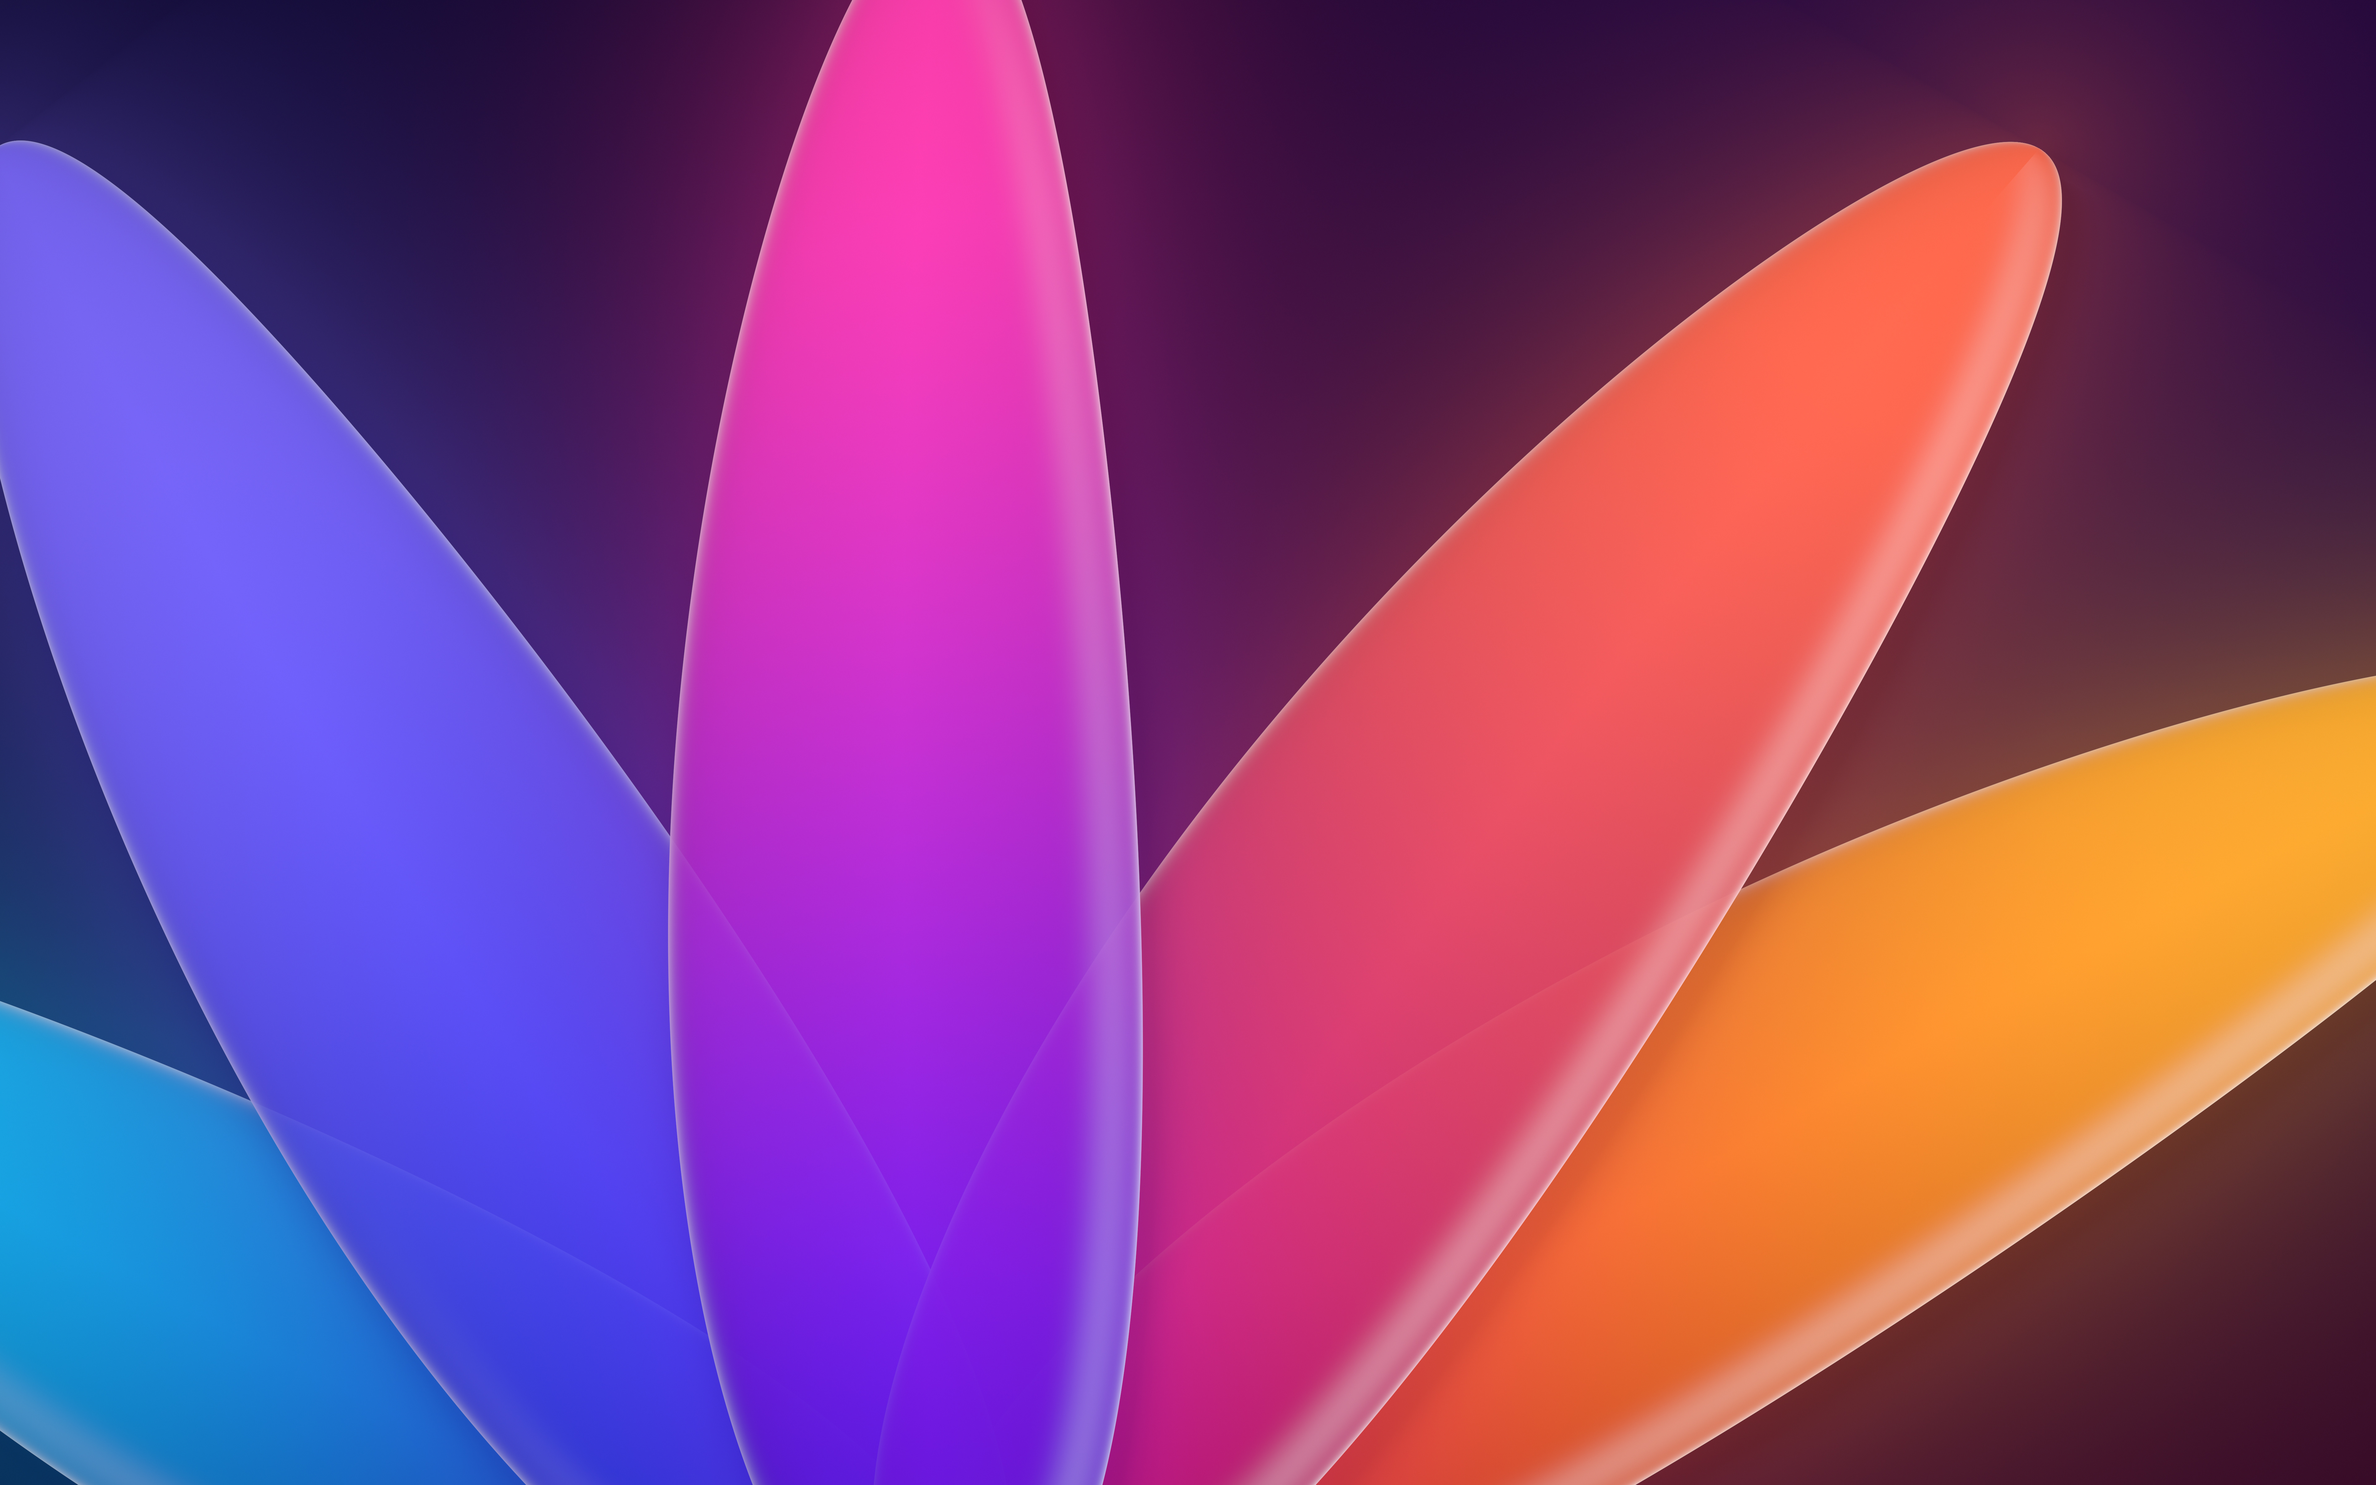
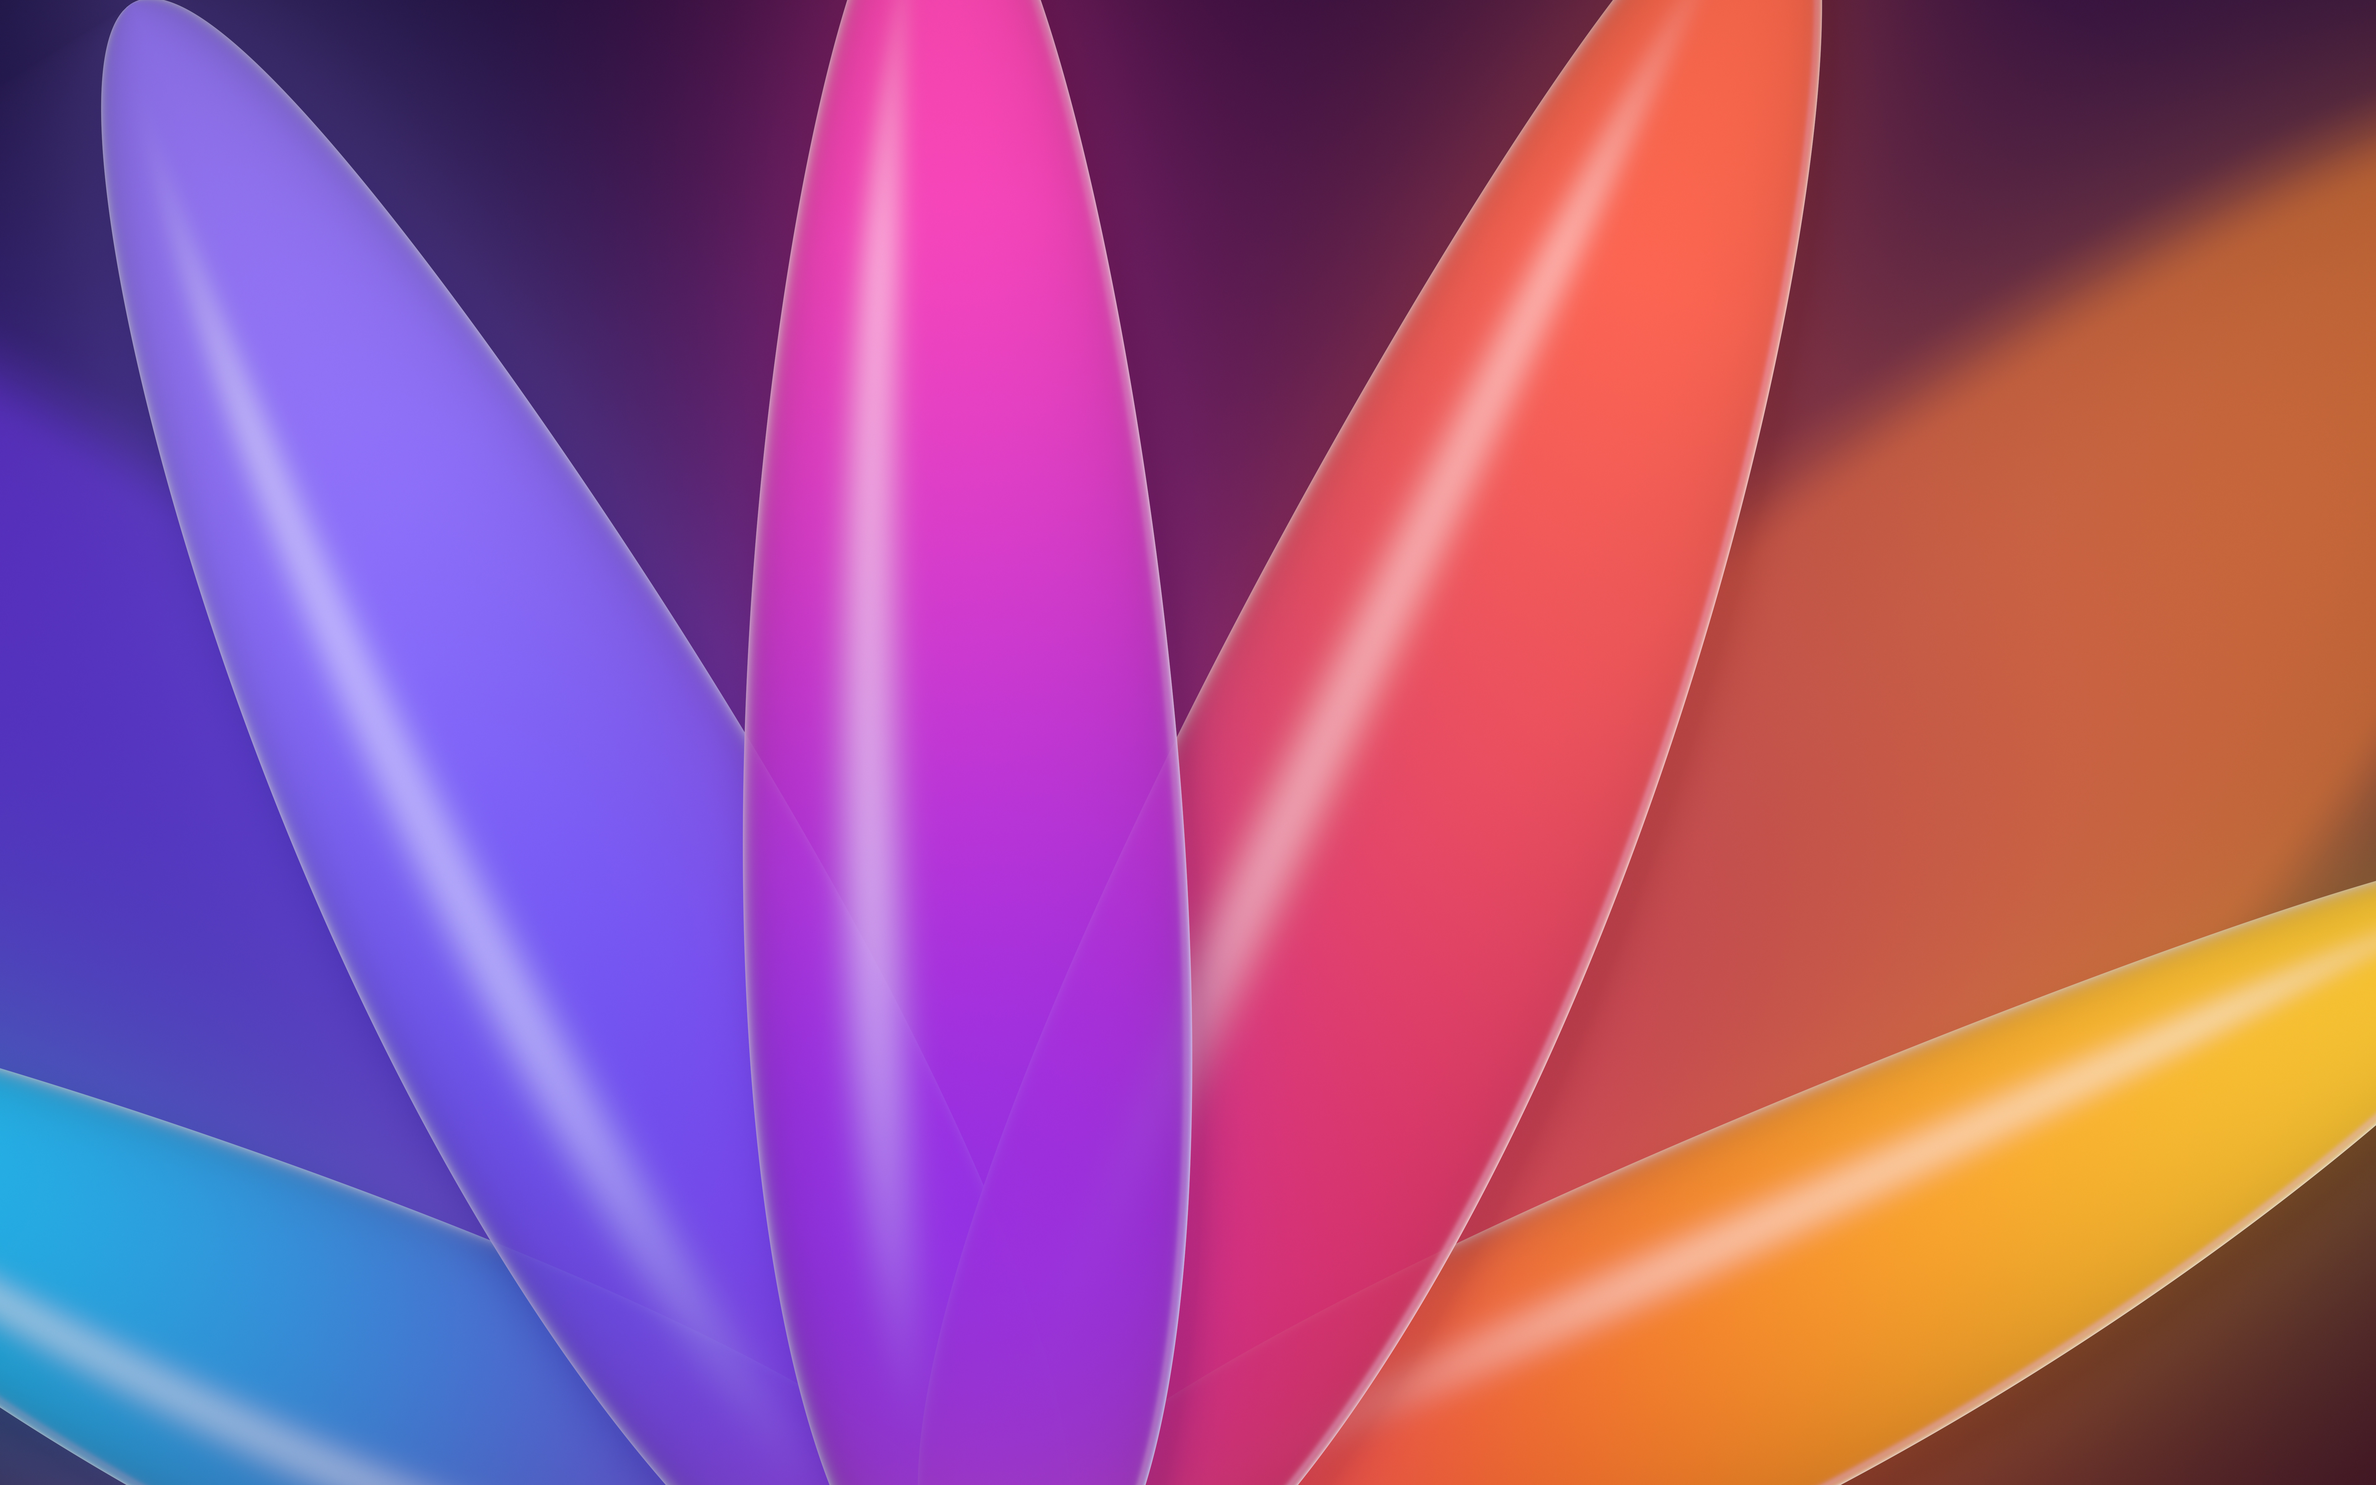
Bloom: depth of field (soft petals behind), rounded glass petals with a light streak and warm rim fringe, warm light at the heart, petals curving as they open

diff --git a/tools/bloom.py b/tools/bloom.py
@@ -1,11 +1,14 @@
 #!/usr/bin/env python3
-"""Memora "Bloom": big petals of coloured glass over a vivid wash of colour.
+"""Memora "Bloom": petals of coloured glass opening over a vivid wash of colour.
 
 Bright, saturated colour everywhere, so the Liquid Glass of the menu bar, the
-Dock and the widgets has something to bend and tint. Each petal is a pane of
-tinted glass: it shows what is behind it shifted a little (refraction), lights
-up along the rim that faces the light, and leaves a coloured shade on what is
-behind it. Rendered per pixel (numpy), so it is smooth at any size.
+Dock and the widgets has something to bend and tint. The petals open from one
+point just below the screen, where a warm light shines through them. The ones
+at the back are out of focus, like a photo with a shallow depth of field; the
+ones in front are thick, rounded glass: lit along a streak, bright at the rim
+facing the light (with a faint warm fringe), showing what is behind them
+shifted, and casting a coloured shade. Rendered per pixel (numpy), so it is
+smooth at any size.
 
 usage: bloom.py MODE WIDTH HEIGHT OUT.png      MODE: light | dark
 """
@@ -15,40 +18,45 @@ import sys
 import numpy as np
 from PIL import Image
 
-# The wash: colour pools (x, y in screen fractions, radius, colour), blended
-# smoothly into one another. Then the petals, drawn back to front, all opening
-# from one point just below the screen: (angle in degrees, 0 = right, -90 = up;
-# length and half width in screen heights; colour at the base, colour at the tip;
-# opacity).
-ROOT = (0.40, 1.12)
+ROOT = (0.42, 1.10)            # where the petals open from (screen fractions)
+
+# Petals, back to front: angle (degrees, -90 = straight up), length and half
+# width (screen heights), bend, focus blur (screen heights; 0 = sharp).
+SHAPES = [
+    (-142, 1.45, 0.27, 0.06, 0.035),   # out of focus, behind
+    (-40, 1.50, 0.25, -0.05, 0.035),
+    (-162, 1.02, 0.13, 0.10, 0.0),
+    (-20, 1.18, 0.13, -0.10, 0.0),
+    (-122, 1.24, 0.16, 0.07, 0.0),
+    (-62, 1.30, 0.16, -0.07, 0.0),
+    (-93, 1.20, 0.15, 0.02, 0.0),
+]
+# Per mode: the wash (colour pools: x, y, radius, colour), and for each petal
+# above its colour at the base, at the tip, and its opacity.
 PAL = {
     "dark": {
-        "base": "#090619",
+        "base": "#080517",
         "pools": [(0.0, 0.0, 0.6, "#120a3d"), (1.0, 0.0, 0.55, "#2a0a55"),
-                  (0.1, 1.0, 0.55, "#071a5a"), (0.95, 1.0, 0.6, "#4a0a35"),
-                  (0.45, 0.85, 0.35, "#2a0a58")],
-        "petals": [
-            (-158, 1.05, 0.15, "#0b3fd6", "#17c6ff", 0.88),
-            (-36, 1.30, 0.16, "#ff3b1f", "#ffb02e", 0.90),
-            (-128, 1.20, 0.17, "#2a3bff", "#7d6bff", 0.86),
-            (-60, 1.25, 0.17, "#d4127a", "#ff6a4a", 0.88),
-            (-96, 1.18, 0.16, "#6a1bff", "#ff3fae", 0.86),
-        ],
-        "body": 0.70, "glow": 0.30, "rim": 0.9, "sheen": 0.32, "shade": 0.55, "lens": 0.03, "vignette": 0.40,
+                  (0.05, 1.0, 0.55, "#06185a"), (0.95, 1.0, 0.6, "#4a0a30"),
+                  (0.5, 0.45, 0.4, "#1d0a48")],
+        "colours": [("#2a2bd6", "#7a3cff", 0.55), ("#e0186a", "#ff8a2a", 0.55),
+                    ("#0b3fd6", "#17d0ff", 0.88), ("#ff4a12", "#ffcc33", 0.90),
+                    ("#3340ff", "#9a7bff", 0.86), ("#d90f6e", "#ff6a4a", 0.88),
+                    ("#6a1bff", "#ff48b4", 0.86)],
+        "root": ("#ff6a3a", 0.55), "glow": 0.30, "rim": 0.95, "streak": 0.45,
+        "shade": 0.55, "lens": 0.03, "vignette": 0.42, "body": 0.62,
     },
     "light": {
-        "base": "#f4eefa",
-        "pools": [(0.0, 0.0, 0.6, "#dfe4ff"), (1.0, 0.0, 0.55, "#ffdcec"),
-                  (0.1, 1.0, 0.55, "#cfe6ff"), (0.95, 1.0, 0.6, "#ffe0c6"),
-                  (0.45, 0.85, 0.35, "#ecdcff")],
-        "petals": [
-            (-158, 1.05, 0.15, "#2563ff", "#2fc8ff", 0.90),
-            (-36, 1.30, 0.16, "#ff4a1c", "#ffb81f", 0.92),
-            (-128, 1.20, 0.17, "#3f4dff", "#8a72ff", 0.90),
-            (-60, 1.25, 0.17, "#ec1c80", "#ff7046", 0.90),
-            (-96, 1.18, 0.16, "#7c2cff", "#ff3fae", 0.90),
-        ],
-        "body": 0.52, "glow": 0.22, "rim": 1.0, "sheen": 0.45, "shade": 0.28, "lens": 0.03, "vignette": 0.0,
+        "base": "#f5eefa",
+        "pools": [(0.0, 0.0, 0.6, "#dde3ff"), (1.0, 0.0, 0.55, "#ffd9ea"),
+                  (0.05, 1.0, 0.55, "#cde4ff"), (0.95, 1.0, 0.6, "#ffdcc0"),
+                  (0.5, 0.45, 0.4, "#f1e2ff")],
+        "colours": [("#5b5cff", "#a98aff", 0.50), ("#ff4f8e", "#ffb054", 0.50),
+                    ("#2563ff", "#2fd0ff", 0.90), ("#ff4a1c", "#ffc21f", 0.92),
+                    ("#3f4dff", "#8a72ff", 0.90), ("#ec1c80", "#ff7046", 0.90),
+                    ("#7c2cff", "#ff3fae", 0.90)],
+        "root": ("#fff1e0", 0.65), "glow": 0.22, "rim": 1.0, "streak": 0.55,
+        "shade": 0.28, "lens": 0.03, "vignette": 0.0, "body": 0.50,
     },
 }
 
@@ -76,7 +84,8 @@ def smooth(e0, e1, x):
 
 
 def wash(p, x, y, aspect):
-    """The background: colour pools blended by soft weights over the base."""
+    """The background: colour pools blended by soft weights over the base, and
+    the warm light at the heart of the flower."""
     base = lin(hexc(p["base"]))
     acc = np.zeros(x.shape + (3,), np.float32) + base * 0.35
     wsum = np.full(x.shape, 0.35, np.float32)
@@ -85,38 +94,43 @@ def wash(p, x, y, aspect):
         w = np.exp(-(dx * dx + dy * dy) / (r * r))
         acc += w[..., None] * lin(hexc(c))
         wsum += w
-    return acc / wsum[..., None]
+    col = acc / wsum[..., None]
+    rc, ra = lin(hexc(p["root"][0])), p["root"][1]
+    dx, dy = x - ROOT[0] * aspect, (y - ROOT[1]) * 1.3
+    g = ra * np.exp(-(dx * dx + dy * dy) / 0.22)
+    return col + (rc - col) * g[..., None]
 
 
-def petal_field(pt, x, y, aspect, off=(0.0, 0.0)):
-    """Signed distance (screen heights, < 0 inside) and outward normal of a petal:
-    narrow at the root, widest two thirds out, rounded at the tip, slightly bent.
-    Also returns how far along it a point is (0 at the root, 1 at the tip)."""
-    ang, length, b = math.radians(pt[0]), pt[1], pt[2]
+def petal_field(s, x, y, aspect, off=(0.0, 0.0)):
+    """A petal: signed distance (screen heights, < 0 inside), outward normal,
+    how far along it a point is (0 at the root, 1 at the tip) and where across
+    it (-1..1, edge to edge)."""
+    ang, length, b, bend = math.radians(s[0]), s[1], s[2], s[3]
     ca, sa = math.cos(ang), math.sin(ang)
     dx, dy = x - (ROOT[0] * aspect + off[0]), y - (ROOT[1] + off[1])
     u = dx * ca + dy * sa              # along the petal, from the root
     v = -dx * sa + dy * ca             # across it
     t = np.clip(u / length, 0, 1)
-    v = v - 0.10 * length * t * t      # a gentle bend
-    # Width profile: sin-like swell, full round tip.
-    half = b * np.sqrt(np.clip(np.sin(math.pi * np.clip(t, 0, 1) ** 0.75), 0, 1))
+    v = v - bend * length * t * t      # curving as it opens
+    half = b * np.sqrt(np.clip(np.sin(math.pi * t ** 0.72), 0, 1))
     d = np.abs(v) - half
     d = np.where(u > length, np.hypot(u - length, v), d)
-    d = np.where(u < 0, np.hypot(u, v) + 0.0, d)
+    d = np.where(u < 0, np.hypot(u, v), d)
     gy, gx = np.gradient(d)
     n = np.sqrt(gx * gx + gy * gy) + 1e-9
-    return d, gx / n, gy / n, t, v / max(b, 1e-6)
+    across = np.clip(v / np.maximum(half, 1e-4), -1, 1)
+    return d, gx / n, gy / n, t, across
 
 
 def render(mode, W, H):
     p = PAL[mode]
-    dark = mode == "dark"
     aspect = W / H
     out = np.zeros((H, W, 3), np.uint8)
     rng = np.random.default_rng(11)
-    chunk = 240
-    pad = 2
+    chunk, pad = 240, 2
+    px = 1.0 / H
+    rc = lin(hexc(p["root"][0]))
+    warm = np.array([1.0, 0.55, 0.85], np.float32)
     for y0 in range(0, H, chunk):
         y1 = min(H, y0 + chunk)
         ya, yb = max(0, y0 - pad), min(H, y1 + pad)  # padded rows, for the gradients
@@ -124,47 +138,53 @@ def render(mode, W, H):
         xs = (np.arange(W, dtype=np.float32) + 0.5) / H
         x, y = np.meshgrid(xs, ys)
         col = wash(p, x, y, aspect)
-        px = 1.0 / H
-        for pt in p["petals"]:
-            c0, c1, alpha = lin(hexc(pt[3])), lin(hexc(pt[4])), pt[5]
-            d, nx, ny, along, across = petal_field(pt, x, y, aspect)
-            cov = smooth(0.9 * px, -0.9 * px, d)
+        for s, (ca_, cb_, alpha) in zip(SHAPES, p["colours"]):
+            c0, c1, blur = lin(hexc(ca_)), lin(hexc(cb_)), s[4]
+            d, nx, ny, along, across = petal_field(s, x, y, aspect)
+            soft = max(0.9 * px, blur)
+            cov = smooth(soft, -soft, d)
+            crisp = 0.9 * px / soft                   # 1 in focus, small when blurred
             inner = np.maximum(-d, 0)
             c = c0 + (c1 - c0) * smooth(0.05, 0.95, along)[..., None]
             # Its light spills onto what is behind, in its own colour.
             spill = p["glow"] * np.exp(-np.maximum(d, 0) / 0.09) * (1 - cov)
             col = col + (c - col) * spill[..., None] * 0.5
-            # Coloured shade cast down-right onto what is behind.
-            sd = petal_field(pt, x, y, aspect, (0.008, 0.016))[0]
-            shade = p["shade"] * np.exp(-np.maximum(sd, 0) / 0.025) * smooth(0.04, -0.01, sd) * (1 - cov)
-            col = col * (1 - shade[..., None] * (1 - c * 0.5) * 0.55)
-            # Refraction: behind the glass the wash is seen shifted near the rim,
-            # where the glass bends.
-            bend = p["lens"] * np.exp(-inner / 0.04)
-            behind = wash(p, x - nx * bend, y - ny * bend, aspect)
-            behind = col * 0.6 + behind * 0.4
-            # The glass body: tinted, brighter towards its middle and its tip.
-            body_l = p["body"] + 0.35 * along + 0.20 * (1 - np.clip(np.abs(across), 0, 1))
+            if crisp > 0.5:
+                # Coloured shade cast down-right onto what is behind.
+                sd = petal_field(s, x, y, aspect, (0.008, 0.016))[0]
+                shade = p["shade"] * np.exp(-np.maximum(sd, 0) / 0.025) * smooth(0.04, -0.01, sd) * (1 - cov)
+                col = col * (1 - shade[..., None] * (1 - c * 0.5) * 0.55)
+            # Refraction: behind the glass, the wash is seen shifted near the rim.
+            bend = p["lens"] * np.exp(-inner / 0.04) * crisp
+            behind = col * 0.6 + wash(p, x - nx * bend, y - ny * bend, aspect) * 0.4
+            # The glass body: rounded across its width, brighter towards the tip,
+            # and lit from within near the root by the warm light.
+            round_ = np.sqrt(np.clip(1 - across * across, 0, 1))
+            body_l = p["body"] + 0.30 * along + 0.28 * round_
             tint = c * body_l[..., None]
+            tint = tint + (rc - tint) * (0.35 * np.exp(-along / 0.18))[..., None]
             body = behind * (1 - alpha) + tint * alpha
-            # Light: a bright rim on the side facing the light, a fainter one opposite,
-            # a soft sheen just inside the lit edge.
+            # Light: a streak along the lit side, a bright rim facing the light
+            # with a warm fringe just inside it, a fainter rim opposite.
             facing = np.clip(-(nx * LIGHT[0] + ny * LIGHT[1]), 0, 1)
-            rim = np.exp(-inner / 0.0022) * (0.30 + 0.70 * facing) * p["rim"]
-            back = np.exp(-inner / 0.0035) * (1 - facing) * 0.30
-            sheen = np.exp(-((inner - 0.020) / 0.016) ** 2) * facing * p["sheen"]
-            lit = np.clip(c * 0.45 + 0.62, 0, 1)
-            body = body + (lit - body) * np.clip(rim + back + sheen, 0, 1)[..., None]
+            streak = (np.exp(-((across + 0.42) / 0.13) ** 2) * smooth(0.10, 0.45, along)
+                      * (1 - smooth(0.75, 0.97, along)) * p["streak"] * crisp)
+            rim = np.exp(-inner / 0.0020) * (0.30 + 0.70 * facing) * p["rim"] * crisp
+            fringe = np.exp(-((inner - 0.0045) / 0.0022) ** 2) * facing * 0.35 * crisp
+            back = np.exp(-inner / 0.0035) * (1 - facing) * 0.30 * crisp
+            white = np.clip(c * 0.4 + 0.65, 0, 1)
+            body = body + (white - body) * np.clip(rim + back + streak, 0, 1)[..., None]
+            body = body + (warm - body) * np.clip(fringe, 0, 1)[..., None] * 0.6
             # Thickness: the far edge darkens a little.
-            body = body * (1 - 0.22 * np.exp(-inner / 0.014) * (1 - facing))[..., None]
+            body = body * (1 - 0.25 * np.exp(-inner / 0.014) * (1 - facing) * crisp)[..., None]
             col = col * (1 - cov[..., None]) + body * cov[..., None]
         if p["vignette"]:
             vx, vy = (x / aspect - 0.5) * 1.5, (y - 0.5) * 1.5
             col = col * (1 - p["vignette"] * np.clip(vx * vx + vy * vy - 0.3, 0, 1))[..., None]
         col = col[y0 - ya: y0 - ya + (y1 - y0)]
-        s = srgb(col) * 255
-        s += rng.normal(0, 0.9, s.shape)             # grain: no banding
-        out[y0:y1] = np.clip(s + 0.5, 0, 255).astype(np.uint8)
+        s8 = srgb(col) * 255
+        s8 += rng.normal(0, 0.9, s8.shape)             # grain: no banding
+        out[y0:y1] = np.clip(s8 + 0.5, 0, 255).astype(np.uint8)
     return out
 
 
